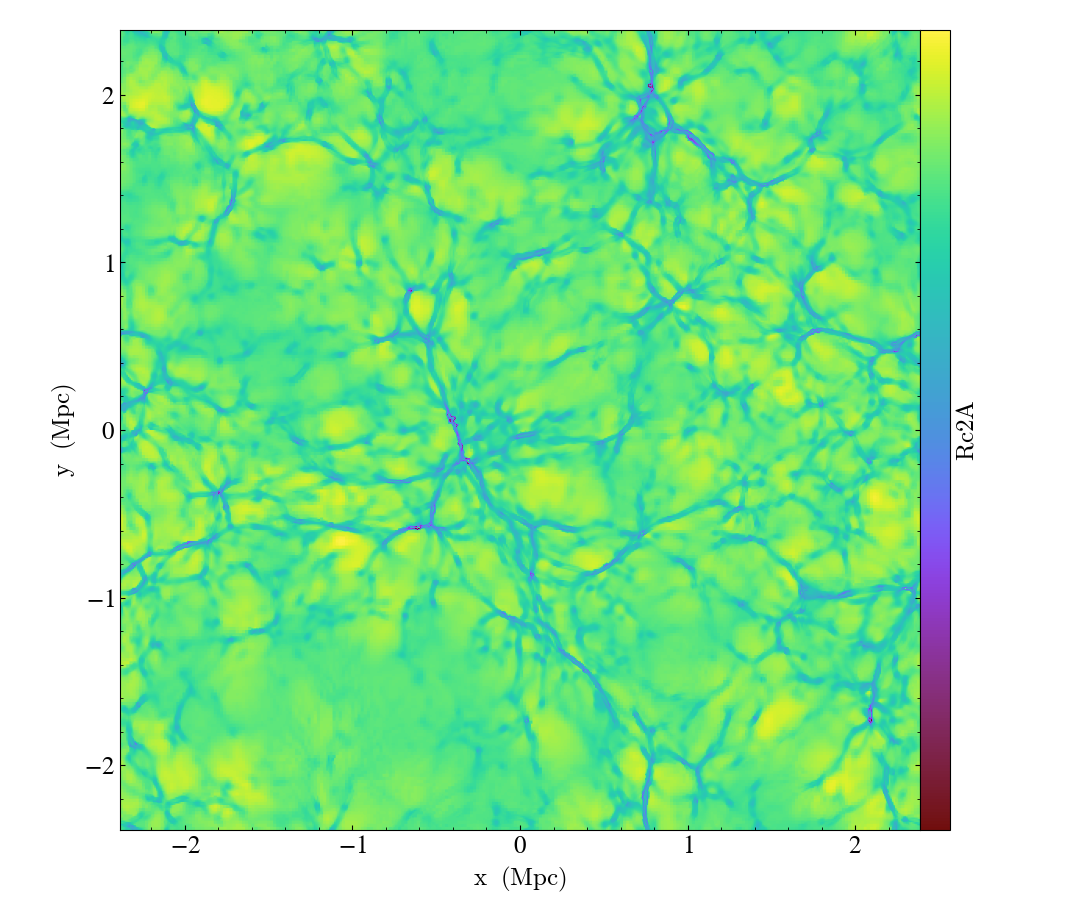
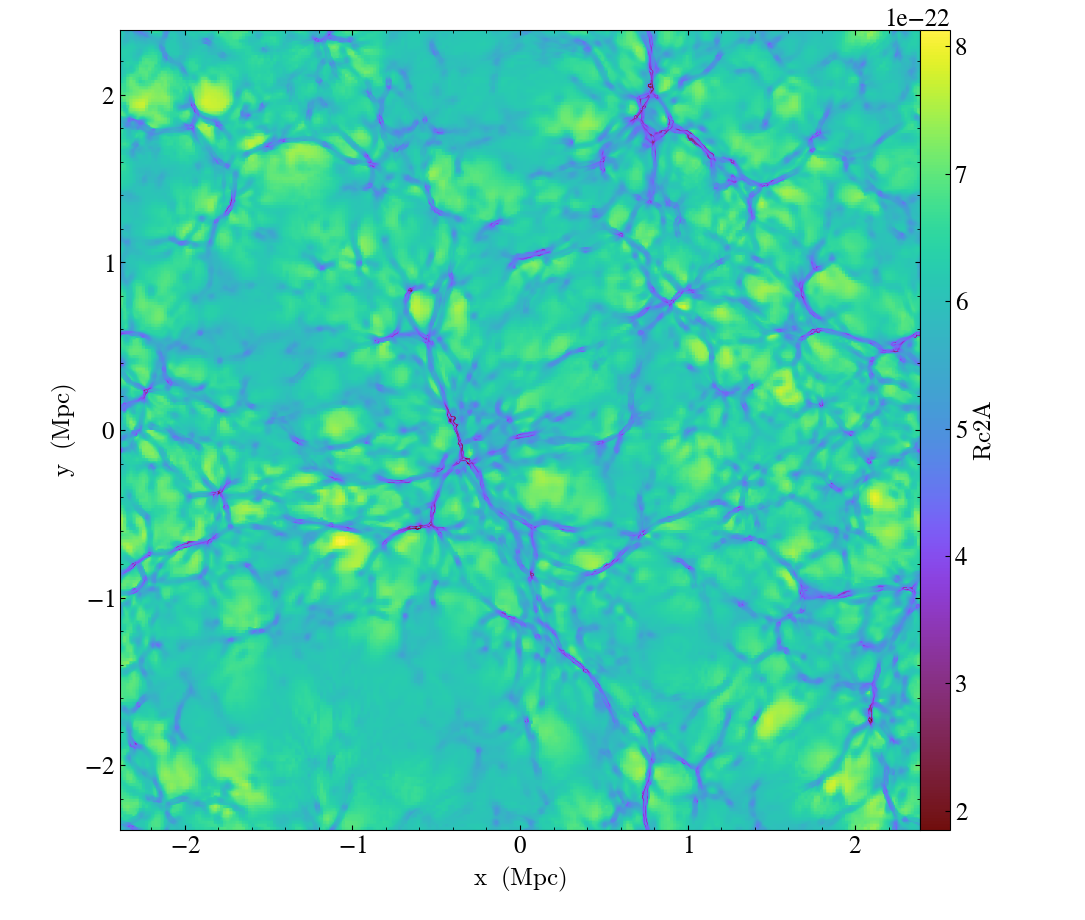
Added detecter to determine whether to use log sliceplot or linear sliceplot

diff --git a/tools/raziq_croc.py b/tools/raziq_croc.py
@@ -13,9 +13,10 @@ def make_slice_plot(dataset,list_or_array):
         minimum = np.amin(all_data_at_z_0[p])
         maximum = np.amax(all_data_at_z_0[p])
         ratio = maximum/minimum
+#        print(p+"_"+str(ratio))
         if ratio < 100:
             slc = yt.SlicePlot(ds, 'z',p)
-            slc.set_log(p, True)
+            slc.set_log(p, False)
             slc.save(p + '_sliceplot.png')
         else: 
             slc = yt.SlicePlot(ds, 'z',p)
